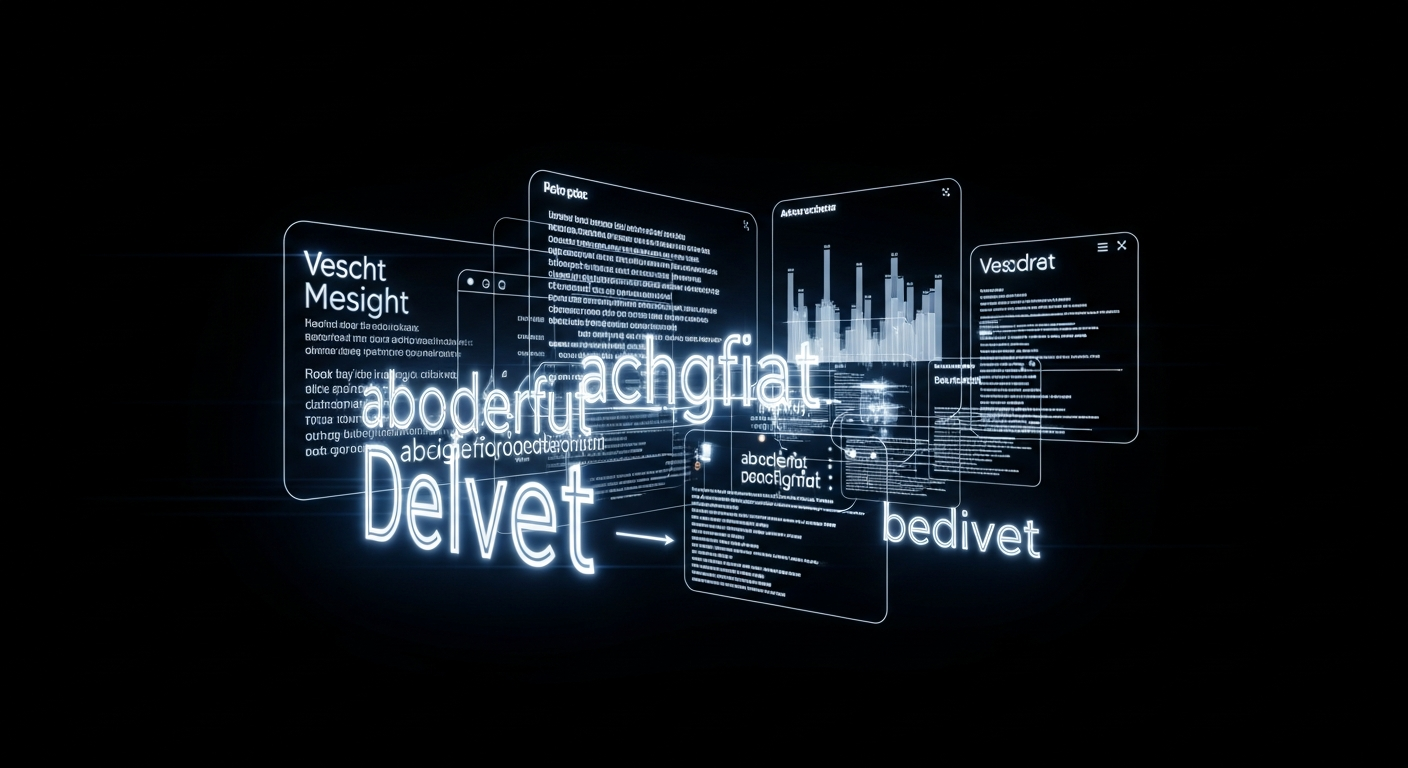
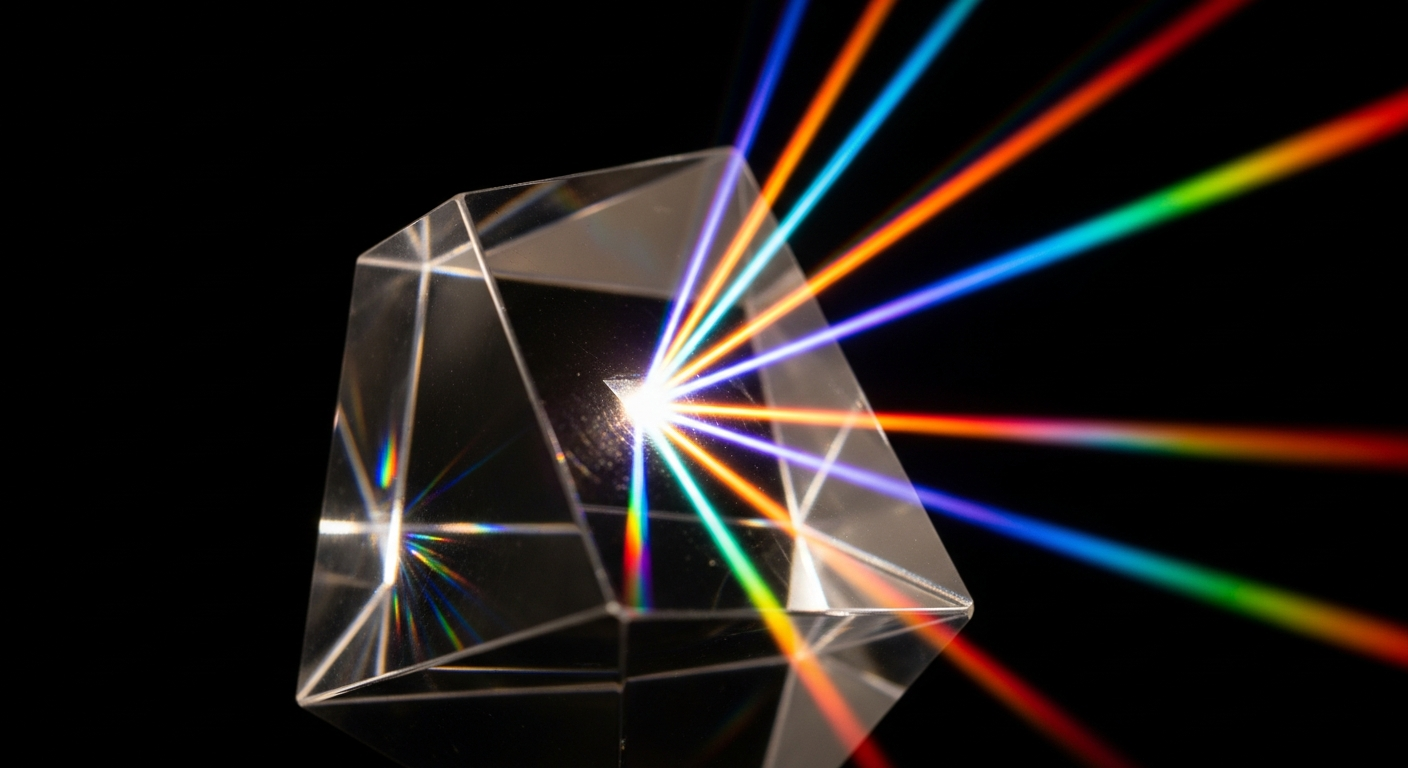
Update pages with new visual designs and relevant images
Adds new image assets to various pages including Developer, Privacy, Settings, and Terms. Modifies UI components, particularly `GlassCard`, to incorporate these images as visual headers, enhancing the overall aesthetic and information hierarchy.

Replit-Commit-Author: Agent
Replit-Commit-Session-Id: c5f4ddfb-c716-42fe-a629-0834692f00fe
Replit-Commit-Checkpoint-Type: full_checkpoint
Replit-Commit-Event-Id: 0d7727a1-828f-401f-afd3-1c3689008e4c
Replit-Commit-Screenshot-Url: https://storage.googleapis.com/screenshot-production-us-central1/9558e4e6-8018-44f4-896d-d017366f8623/c5f4ddfb-c716-42fe-a629-0834692f00fe/ehjr4hL
Replit-Helium-Checkpoint-Created: true

diff --git a/client/src/pages/DeveloperPage.tsx b/client/src/pages/DeveloperPage.tsx
@@ -8,6 +8,9 @@ import { Input } from "@/components/ui/input";
 import { Label } from "@/components/ui/label";
 import { Switch } from "@/components/ui/switch";
 import { useToast } from "@/hooks/use-toast";
+import statusImg from "@/assets/images/dev-status.png";
+import dangerImg from "@/assets/images/dev-danger.png";
+import settingsImg from "@/assets/images/dev-settings.png";
 
 const stagger = {
   hidden: { opacity: 0 },
@@ -133,41 +136,51 @@ function AdminDashboard() {
 
         <div className="lg:col-span-4 space-y-6">
           <motion.div variants={fadeUp}>
-            <GlassCard className="p-6" hoverEffect>
-              <div className="flex items-center gap-3 mb-5">
-                <div className="p-2 rounded-lg bg-emerald-500/10">
-                  <Activity className="w-5 h-5 text-emerald-400" />
-                </div>
-                <h2 className="text-lg font-semibold text-foreground">Status</h2>
-              </div>
-              <div className="space-y-3">
-                {[
-                  { label: "API", status: "Online", color: "bg-emerald-400" },
-                  { label: "Database", status: "Connected", color: "bg-emerald-400" },
-                  { label: "OpenAI", status: "Active", color: "bg-emerald-400" },
-                  { label: "TrustShield", status: "Protected", color: "bg-blue-400" },
-                ].map((s) => (
-                  <div key={s.label} className="flex items-center justify-between py-2 border-b border-white/5 last:border-0">
-                    <span className="text-sm text-muted-foreground">{s.label}</span>
-                    <div className="flex items-center gap-2">
-                      <div className={`w-2 h-2 rounded-full ${s.color} animate-pulse`} />
-                      <span className="text-xs text-foreground">{s.status}</span>
-                    </div>
+            <GlassCard className="overflow-hidden" hoverEffect>
+              <div className="relative h-28 overflow-hidden">
+                <img src={statusImg} alt="" className="absolute inset-0 w-full h-full object-cover" />
+                <div className="absolute inset-0 bg-gradient-to-b from-black/20 via-black/40 to-black/90" />
+                <div className="absolute bottom-0 left-0 right-0 p-4 flex items-center gap-3">
+                  <div className="p-2 rounded-lg bg-emerald-500/20 backdrop-blur-sm">
+                    <Activity className="w-5 h-5 text-emerald-400" />
                   </div>
-                ))}
+                  <h2 className="text-lg font-semibold text-white font-display">Status</h2>
+                </div>
+              </div>
+              <div className="p-5">
+                <div className="space-y-3">
+                  {[
+                    { label: "API", status: "Online", color: "bg-emerald-400" },
+                    { label: "Database", status: "Connected", color: "bg-emerald-400" },
+                    { label: "OpenAI", status: "Active", color: "bg-emerald-400" },
+                    { label: "TrustShield", status: "Protected", color: "bg-blue-400" },
+                  ].map((s) => (
+                    <div key={s.label} className="flex items-center justify-between py-2 border-b border-white/5 last:border-0">
+                      <span className="text-sm text-muted-foreground">{s.label}</span>
+                      <div className="flex items-center gap-2">
+                        <div className={`w-2 h-2 rounded-full ${s.color} animate-pulse`} />
+                        <span className="text-xs text-foreground">{s.status}</span>
+                      </div>
+                    </div>
+                  ))}
+                </div>
               </div>
             </GlassCard>
           </motion.div>
 
           <motion.div variants={fadeUp}>
-            <GlassCard className="p-6" hoverEffect>
-              <div className="flex items-center gap-3 mb-5">
-                <div className="p-2 rounded-lg bg-red-500/10">
-                  <Trash2 className="w-5 h-5 text-red-400" />
+            <GlassCard className="overflow-hidden" hoverEffect>
+              <div className="relative h-28 overflow-hidden">
+                <img src={dangerImg} alt="" className="absolute inset-0 w-full h-full object-cover" />
+                <div className="absolute inset-0 bg-gradient-to-b from-black/20 via-black/40 to-black/90" />
+                <div className="absolute bottom-0 left-0 right-0 p-4 flex items-center gap-3">
+                  <div className="p-2 rounded-lg bg-red-500/20 backdrop-blur-sm">
+                    <Trash2 className="w-5 h-5 text-red-400" />
+                  </div>
+                  <h2 className="text-lg font-semibold text-white font-display">Danger Zone</h2>
                 </div>
-                <h2 className="text-lg font-semibold text-foreground">Danger Zone</h2>
               </div>
-              <div className="space-y-3">
+              <div className="p-5 space-y-3">
                 <Button
                   variant="destructive"
                   className="w-full"
@@ -184,14 +197,18 @@ function AdminDashboard() {
 
         <div className="lg:col-span-8 space-y-6">
           <motion.div variants={fadeUp}>
-            <GlassCard className="p-6" hoverEffect>
-              <div className="flex items-center gap-3 mb-5">
-                <div className="p-2 rounded-lg bg-white/5">
-                  <Settings className="w-5 h-5 text-white/70" />
+            <GlassCard className="overflow-hidden" hoverEffect>
+              <div className="relative h-28 overflow-hidden">
+                <img src={settingsImg} alt="" className="absolute inset-0 w-full h-full object-cover" />
+                <div className="absolute inset-0 bg-gradient-to-b from-black/20 via-black/40 to-black/90" />
+                <div className="absolute bottom-0 left-0 right-0 p-4 flex items-center gap-3">
+                  <div className="p-2 rounded-lg bg-white/10 backdrop-blur-sm">
+                    <Settings className="w-5 h-5 text-white/80" />
+                  </div>
+                  <h2 className="text-lg font-semibold text-white font-display">Application Settings</h2>
                 </div>
-                <h2 className="text-lg font-semibold text-foreground">Application Settings</h2>
               </div>
-              <div className="space-y-5">
+              <div className="p-5 space-y-5">
                 <div className="flex items-center justify-between gap-4">
                   <div>
                     <Label className="text-sm text-foreground">Maintenance Mode</Label>

diff --git a/client/src/pages/TermsPage.tsx b/client/src/pages/TermsPage.tsx
@@ -2,6 +2,12 @@ import { Layout } from "@/components/ui/Layout";
 import { GlassCard } from "@/components/ui/GlassCard";
 import { FileText, AlertTriangle, Scale, Ban, Phone, MessageCircle, ExternalLink, ShieldCheck, Globe } from "lucide-react";
 import { motion } from "framer-motion";
+import disclaimerImg from "@/assets/images/terms-disclaimer.png";
+import liabilityImg from "@/assets/images/terms-liability.png";
+import prohibitedImg from "@/assets/images/terms-prohibited.png";
+import dataImg from "@/assets/images/terms-data.png";
+import ipImg from "@/assets/images/terms-ip.png";
+import lawImg from "@/assets/images/terms-law.png";
 
 const stagger = {
   hidden: { opacity: 0 },
@@ -17,7 +23,7 @@ const termsSections = [
     icon: AlertTriangle,
     title: "Entertainment Disclaimer",
     color: "text-yellow-400",
-    bg: "bg-yellow-500/10",
+    img: disclaimerImg,
     content: [
       "THE VOID is designed purely for entertainment purposes. All AI-generated responses are fictional and created by artificial intelligence algorithms.",
       "The AI personalities (Smart-ass, Calming, Therapist, Hype Man) are characters and do NOT provide real therapy, counseling, medical advice, or professional guidance of any kind.",
@@ -28,7 +34,7 @@ const termsSections = [
     icon: Scale,
     title: "Limitation of Liability",
     color: "text-blue-400",
-    bg: "bg-blue-500/10",
+    img: liabilityImg,
     content: [
       "DarkWave Studios, its affiliates, Trust Layer (dwtl.io), and TrustShield.tech shall not be held liable for any damages, losses, or consequences arising from the use of THE VOID.",
       "We are not responsible for any decisions, actions, or inactions taken based on AI-generated content.",
@@ -39,7 +45,7 @@ const termsSections = [
     icon: Ban,
     title: "Prohibited Use",
     color: "text-red-400",
-    bg: "bg-red-500/10",
+    img: prohibitedImg,
     content: [
       "Users must not use THE VOID as a replacement for professional mental health services, emergency services, or crisis intervention.",
       "Users must not use the application for any illegal, harmful, or abusive purpose.",
@@ -51,7 +57,7 @@ const termsSections = [
     icon: ShieldCheck,
     title: "Data & Privacy",
     color: "text-emerald-400",
-    bg: "bg-emerald-500/10",
+    img: dataImg,
     content: [
       "By using THE VOID, you consent to the collection and processing of audio data as described in our Privacy Policy.",
       "Audio recordings are processed via third-party AI services (OpenAI) and are subject to their data handling policies.",
@@ -62,7 +68,7 @@ const termsSections = [
     icon: Globe,
     title: "Intellectual Property",
     color: "text-purple-400",
-    bg: "bg-purple-500/10",
+    img: ipImg,
     content: [
       "THE VOID, its design, branding, and all associated content are the intellectual property of DarkWave Studios (DarkwaveStudios.io).",
       "Trust Layer and TrustShield.tech are proprietary technologies. Unauthorized use is prohibited.",
@@ -73,7 +79,7 @@ const termsSections = [
     icon: FileText,
     title: "Changes & Governing Law",
     color: "text-cyan-400",
-    bg: "bg-cyan-500/10",
+    img: lawImg,
     content: [
       "We reserve the right to modify these Terms at any time. Continued use constitutes acceptance of updated terms.",
       "These Terms shall be governed by and construed in accordance with applicable laws.",
@@ -119,21 +125,27 @@ export default function TermsPage() {
           <div className="grid grid-cols-1 md:grid-cols-2 gap-6">
             {termsSections.map((section) => (
               <motion.div key={section.title} variants={fadeUp}>
-                <GlassCard className="p-6 h-full" hoverEffect>
-                  <div className="flex items-start gap-3 mb-4">
-                    <div className={`p-2 rounded-lg ${section.bg}`}>
-                      <section.icon className={`w-5 h-5 ${section.color}`} />
+                <GlassCard className="h-full overflow-hidden" hoverEffect>
+                  <div className="relative h-32 overflow-hidden">
+                    <img src={section.img} alt="" className="absolute inset-0 w-full h-full object-cover" />
+                    <div className="absolute inset-0 bg-gradient-to-b from-black/30 via-black/50 to-black/90" />
+                    <div className="absolute bottom-0 left-0 right-0 p-4 flex items-center gap-3">
+                      <div className="p-2 rounded-lg bg-white/10 backdrop-blur-sm">
+                        <section.icon className={`w-5 h-5 ${section.color}`} />
+                      </div>
+                      <h2 className="text-lg font-semibold text-white font-display">{section.title}</h2>
                     </div>
-                    <h2 className="text-lg font-semibold text-foreground">{section.title}</h2>
                   </div>
-                  <ul className="space-y-3">
-                    {section.content.map((item, i) => (
-                      <li key={i} className="text-sm text-muted-foreground leading-relaxed flex items-start gap-2">
-                        <span className="w-1 h-1 rounded-full bg-muted-foreground/40 shrink-0 mt-2" />
-                        <span>{item}</span>
-                      </li>
-                    ))}
-                  </ul>
+                  <div className="p-5">
+                    <ul className="space-y-3">
+                      {section.content.map((item, i) => (
+                        <li key={i} className="text-sm text-muted-foreground leading-relaxed flex items-start gap-2">
+                          <span className="w-1 h-1 rounded-full bg-muted-foreground/40 shrink-0 mt-2" />
+                          <span>{item}</span>
+                        </li>
+                      ))}
+                    </ul>
+                  </div>
                 </GlassCard>
               </motion.div>
             ))}

diff --git a/client/src/pages/SettingsPage.tsx b/client/src/pages/SettingsPage.tsx
@@ -13,6 +13,8 @@ import smartassImg from "@/assets/images/personality-smartass.png";
 import calmingImg from "@/assets/images/personality-calming.png";
 import therapistImg from "@/assets/images/personality-therapist.png";
 import hypemanImg from "@/assets/images/personality-hypeman.png";
+import audioImg from "@/assets/images/settings-audio.png";
+import displayImg from "@/assets/images/settings-display.png";
 
 const stagger = {
   hidden: { opacity: 0 },
@@ -76,14 +78,16 @@ export default function SettingsPage() {
 
             <div className="lg:col-span-5 space-y-6">
               <motion.div variants={fadeUp}>
-                <GlassCard className="p-6" hoverEffect>
-                  <div className="flex items-center gap-3 mb-5">
-                    <div className="p-2 rounded-lg bg-primary/10">
-                      <Sparkles className="w-5 h-5 text-primary" />
+                <GlassCard className="overflow-hidden" hoverEffect>
+                  <div className="p-5 pb-3">
+                    <div className="flex items-center gap-3 mb-4">
+                      <div className="p-2 rounded-lg bg-primary/10">
+                        <Sparkles className="w-5 h-5 text-primary" />
+                      </div>
+                      <h2 className="text-lg font-semibold text-foreground">Default Personality</h2>
                     </div>
-                    <h2 className="text-lg font-semibold text-foreground">Default Personality</h2>
                   </div>
-                  <div className="grid grid-cols-2 gap-3">
+                  <div className="px-5 pb-5 grid grid-cols-2 gap-3">
                     {personalities.map((p) => {
                       const isSelected = settings.defaultPersonality === p.id;
                       const Icon = p.icon;
@@ -128,14 +132,18 @@ export default function SettingsPage() {
 
             <div className="lg:col-span-7 space-y-6">
               <motion.div variants={fadeUp}>
-                <GlassCard className="p-6" hoverEffect>
-                  <div className="flex items-center gap-3 mb-5">
-                    <div className="p-2 rounded-lg bg-white/5">
-                      <Volume2 className="w-5 h-5 text-white/70" />
+                <GlassCard className="overflow-hidden" hoverEffect>
+                  <div className="relative h-24 overflow-hidden">
+                    <img src={audioImg} alt="" className="absolute inset-0 w-full h-full object-cover" />
+                    <div className="absolute inset-0 bg-gradient-to-b from-black/20 via-black/40 to-black/90" />
+                    <div className="absolute bottom-0 left-0 right-0 p-4 flex items-center gap-3">
+                      <div className="p-2 rounded-lg bg-white/10 backdrop-blur-sm">
+                        <Volume2 className="w-5 h-5 text-white" />
+                      </div>
+                      <h2 className="text-lg font-semibold text-white font-display">Audio & Response</h2>
                     </div>
-                    <h2 className="text-lg font-semibold text-foreground">Audio & Response</h2>
                   </div>
-                  <div className="space-y-6">
+                  <div className="p-5 space-y-6">
                     <div className="flex items-center justify-between gap-4">
                       <div>
                         <Label className="text-sm text-foreground">Auto-play AI Response</Label>
@@ -187,14 +195,18 @@ export default function SettingsPage() {
               </motion.div>
 
               <motion.div variants={fadeUp}>
-                <GlassCard className="p-6" hoverEffect>
-                  <div className="flex items-center gap-3 mb-5">
-                    <div className="p-2 rounded-lg bg-white/5">
-                      <Type className="w-5 h-5 text-white/70" />
+                <GlassCard className="overflow-hidden" hoverEffect>
+                  <div className="relative h-24 overflow-hidden">
+                    <img src={displayImg} alt="" className="absolute inset-0 w-full h-full object-cover" />
+                    <div className="absolute inset-0 bg-gradient-to-b from-black/20 via-black/40 to-black/90" />
+                    <div className="absolute bottom-0 left-0 right-0 p-4 flex items-center gap-3">
+                      <div className="p-2 rounded-lg bg-white/10 backdrop-blur-sm">
+                        <Type className="w-5 h-5 text-white" />
+                      </div>
+                      <h2 className="text-lg font-semibold text-white font-display">Display</h2>
                     </div>
-                    <h2 className="text-lg font-semibold text-foreground">Display</h2>
                   </div>
-                  <div className="space-y-4">
+                  <div className="p-5 space-y-4">
                     <div>
                       <div className="flex items-center justify-between mb-2">
                         <Label className="text-sm text-foreground">Response Font Size</Label>

diff --git a/client/src/pages/PrivacyPage.tsx b/client/src/pages/PrivacyPage.tsx
@@ -2,6 +2,11 @@ import { Layout } from "@/components/ui/Layout";
 import { GlassCard } from "@/components/ui/GlassCard";
 import { Shield, Phone, MessageCircle, ExternalLink, Lock, Eye, Trash2, UserX, FileText } from "lucide-react";
 import { motion } from "framer-motion";
+import collectionImg from "@/assets/images/privacy-collection.png";
+import usageImg from "@/assets/images/privacy-usage.png";
+import securityImg from "@/assets/images/privacy-security.png";
+import retentionImg from "@/assets/images/privacy-retention.png";
+import childrenImg from "@/assets/images/privacy-children.png";
 
 const stagger = {
   hidden: { opacity: 0 },
@@ -16,6 +21,7 @@ const sections = [
   {
     icon: Eye,
     title: "Information We Collect",
+    img: collectionImg,
     items: [
       { label: "Audio Recordings", text: "Temporarily processed for transcription. Not permanently stored unless you opt in to saving vent history." },
       { label: "Transcripts & Responses", text: "Text transcripts and AI-generated responses may be stored to provide session history." },
@@ -26,6 +32,7 @@ const sections = [
   {
     icon: Lock,
     title: "How We Use Your Information",
+    img: usageImg,
     items: [
       { label: "Voice Processing", text: "To process recordings and generate AI personality responses." },
       { label: "History", text: "To maintain your vent history if you opt in." },
@@ -35,6 +42,7 @@ const sections = [
   {
     icon: Shield,
     title: "Third-Party Services & Security",
+    img: securityImg,
     items: [
       { label: "OpenAI", text: "Audio and text data is transmitted to OpenAI for speech-to-text and AI response generation." },
       { label: "TrustShield.tech", text: "Industry-standard encryption and security measures protect your data." },
@@ -44,6 +52,7 @@ const sections = [
   {
     icon: Trash2,
     title: "Data Retention & Deletion",
+    img: retentionImg,
     items: [
       { label: "Audio", text: "Processed in real-time and not permanently stored unless you opt in." },
       { label: "Your Rights", text: "Request deletion of your data at any time. Transcripts can be deleted through the app." },
@@ -52,6 +61,7 @@ const sections = [
   {
     icon: UserX,
     title: "Children's Privacy",
+    img: childrenImg,
     items: [
       { label: "Age Restriction", text: "THE VOID is not intended for individuals under 18. We do not knowingly collect data from minors." },
     ],
@@ -104,23 +114,29 @@ export default function PrivacyPage() {
           </motion.div>
 
           <div className="grid grid-cols-1 md:grid-cols-2 gap-6">
-            {sections.map((section, i) => (
+            {sections.map((section) => (
               <motion.div key={section.title} variants={fadeUp}>
-                <GlassCard className="p-6 h-full" hoverEffect>
-                  <div className="flex items-start gap-3 mb-4">
-                    <div className="p-2 rounded-lg bg-white/5">
-                      <section.icon className="w-5 h-5 text-white/70" />
+                <GlassCard className="h-full overflow-hidden" hoverEffect>
+                  <div className="relative h-32 overflow-hidden">
+                    <img src={section.img} alt="" className="absolute inset-0 w-full h-full object-cover" />
+                    <div className="absolute inset-0 bg-gradient-to-b from-black/30 via-black/50 to-black/90" />
+                    <div className="absolute bottom-0 left-0 right-0 p-4 flex items-center gap-3">
+                      <div className="p-2 rounded-lg bg-white/10 backdrop-blur-sm">
+                        <section.icon className="w-5 h-5 text-white" />
+                      </div>
+                      <h2 className="text-lg font-semibold text-white font-display">{section.title}</h2>
                     </div>
-                    <h2 className="text-lg font-semibold text-foreground">{section.title}</h2>
                   </div>
-                  <ul className="space-y-3">
-                    {section.items.map((item) => (
-                      <li key={item.label} className="text-sm">
-                        <span className="text-foreground font-medium">{item.label}:</span>{" "}
-                        <span className="text-muted-foreground">{item.text}</span>
-                      </li>
-                    ))}
-                  </ul>
+                  <div className="p-5">
+                    <ul className="space-y-3">
+                      {section.items.map((item) => (
+                        <li key={item.label} className="text-sm">
+                          <span className="text-foreground font-medium">{item.label}:</span>{" "}
+                          <span className="text-muted-foreground">{item.text}</span>
+                        </li>
+                      ))}
+                    </ul>
+                  </div>
                 </GlassCard>
               </motion.div>
             ))}
